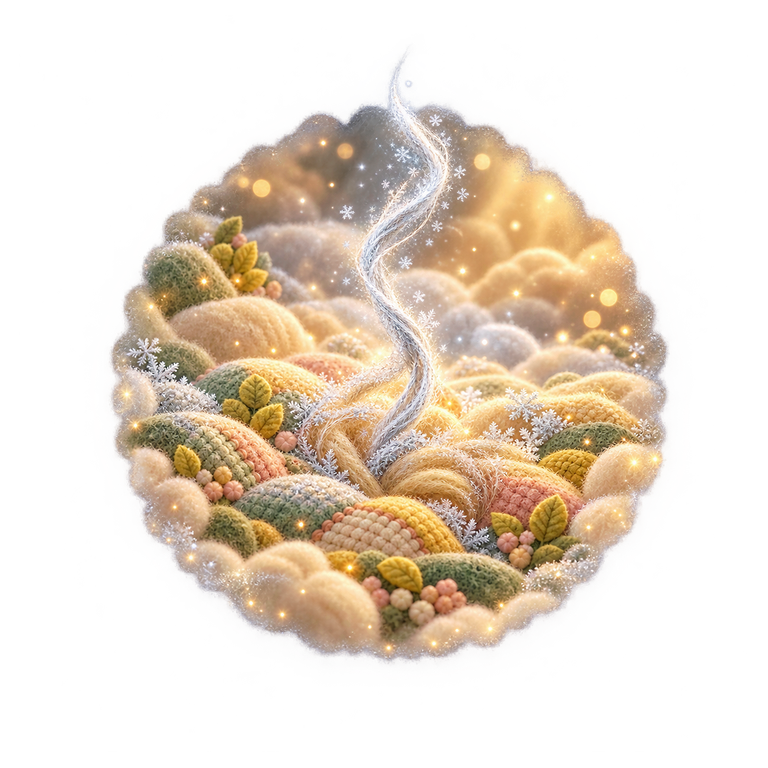
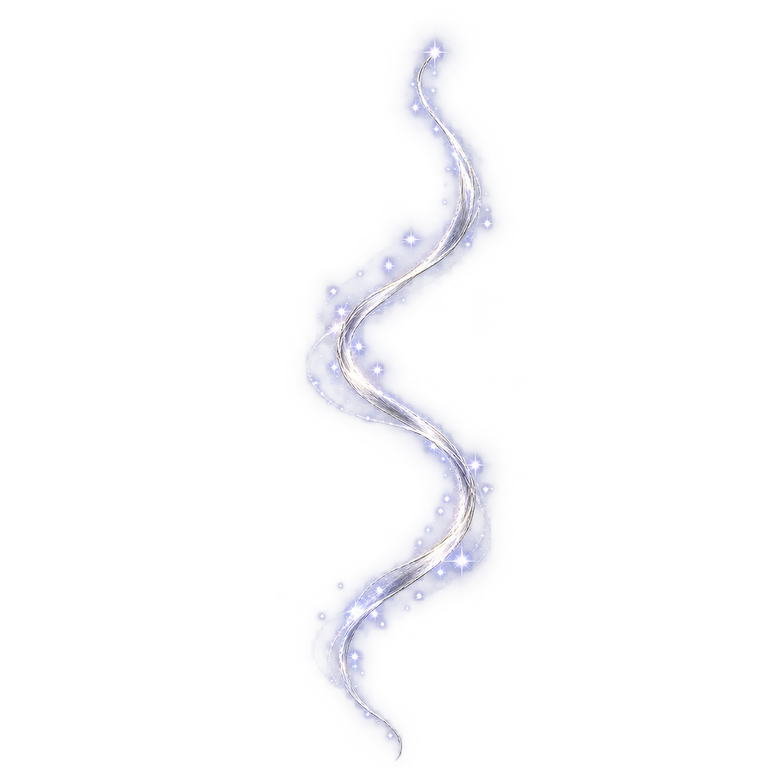
터비 3장 C3-6 2차 수정: Codex 재검수 R1-01~05 반영
- R1-01·03: 작은 화면 유닛 라벨을 이름 한 줄 + "HP · 상태" 한 줄로 고정, 라벨 줄바꿈 폭 2.5칸(모든 장 공통 전투 라벨)
- R1-02: 쓰러진 유닛이 남아 보이는 칸의 이동 칸은 윤곽만(채운 칸이 흐린 유닛을 덮지 않게)
- R1-04: 3장 대화 구간에 전용 배경 chapter03-dialogue-bg(delivery-v3, 알파 0.8), 1·2장은 기존 타일
- R1-05(P1): 은빛 실을 delivery-v3로 교체(털실 뭉치로 읽히던 바닥 덩어리 제거)

diff --git a/save-a-turby/src/scenes/BattleScene.ts b/save-a-turby/src/scenes/BattleScene.ts
@@ -33,7 +33,6 @@ interface UnitView {
 
 const RETRY_LIMIT = 3;
 const LABEL_GAP = 30; // 유닛 중심에서 라벨까지
-const LABEL_WRAP = BATTLE_TILE_SIZE * 2 - 12; // 이웃 라벨은 반대편에 있으므로 두 칸 폭까지 쓸 수 있다
 const asDepth = (o: Phaser.GameObjects.GameObject, depth: number) => (o as unknown as Phaser.GameObjects.Components.Depth).setDepth(depth);
 const slotHex = (slot: number) => coopSlots.find((c) => c.slot === slot)?.main ?? '#888888';
 const slotNum = (slot: number) => Phaser.Display.Color.HexStringToColor(slotHex(slot)).color;
@@ -377,7 +376,7 @@ export class BattleScene extends Phaser.Scene {
     container.add([selectRing, ring, body]);
     container.setDepth(10);
     // 라벨은 줄이지 않고 두 칸 폭 안에서 줄바꿈(이웃 라벨은 위·아래로 엇갈려 겹치지 않음 — labelPlacement)
-    const hpText = this.add.text(x, y + LABEL_GAP, this.hpLabel(u), { fontSize: `${this.hud.font.label}px`, color: '#ffffff', align: 'center', wordWrap: { width: LABEL_WRAP, useAdvancedWrap: true }, backgroundColor: u.side === 'party' ? slotHex(u.participantSlot) : '#00000090', padding: { x: 4, y: 2 } }).setOrigin(0.5, 0).setDepth(11);
+    const hpText = this.add.text(x, y + LABEL_GAP, this.hpLabel(u), { fontSize: `${this.hud.font.label}px`, color: '#ffffff', align: 'center', wordWrap: { width: this.hud.labelWrap, useAdvancedWrap: true }, backgroundColor: u.side === 'party' ? slotHex(u.participantSlot) : '#00000090', padding: { x: 4, y: 2 } }).setOrigin(0.5, 0).setDepth(11);
 
     if (!body.input) body.setInteractive({ useHandCursor: true });
     body.on('pointerdown', () => {
@@ -548,10 +547,12 @@ export class BattleScene extends Phaser.Scene {
       const p = this.tileToWorld(f.col, f.row);
       this.moveHighlights.push(this.add.rectangle(p.x, p.y, BATTLE_TILE_SIZE - 4, BATTLE_TILE_SIZE - 4).setStrokeStyle(3, 0xff9fb0, 1).setDepth(4));
     }
+    // 쓰러진 유닛이 남아 보이는 칸(반투명)은 채우지 않고 윤곽만 — 채운 칸이 흐린 유닛 그림을 덮어 보이지 않게(10-22 C3-6 R1-02)
+    const downed = new Set(this.snap.units.filter((o) => (o.stunned || o.inactive) && !isHiddenUnit(o)).map((o) => `${o.col},${o.row}`));
     for (const { col, row } of reachableCells(this.snap, unit)) {
       const { x, y } = this.tileToWorld(col, row);
       const rect = this.add
-        .rectangle(x, y, BATTLE_TILE_SIZE - 6, BATTLE_TILE_SIZE - 6, 0x9fe58a, 0.22)
+        .rectangle(x, y, BATTLE_TILE_SIZE - 6, BATTLE_TILE_SIZE - 6, 0x9fe58a, downed.has(`${col},${row}`) ? 0 : 0.22)
         .setStrokeStyle(2, 0x9fe58a, 0.6)
         .setDepth(4)
         .setInteractive({ useHandCursor: true })

diff --git a/save-a-turby/src/battle/battleView.ts b/save-a-turby/src/battle/battleView.ts
@@ -196,7 +196,8 @@ export function battleHudLayout(scale: number, tile = 80): BattleHudLayout {
   const goalPanel = compact ? { x: 1280 - 8 - 620, y: endTurn.y + endTurn.h + 8, w: 620, h: 260 } : null;
   const closeW = Math.round(font.button * 4);
   const goalClose = goalPanel ? { x: goalPanel.x + goalPanel.w - 8 - closeW, y: goalPanel.y + 8, w: closeW, h: btnH } : null;
-  return { mode: compact ? 'compact' : 'regular', font, objectivesCollapsible: compact, labelWrap: tile * 2 - 12, rects: { endTurn, goalButton, goalPanel, goalClose, turn, leave, hint } };
+  // 라벨 줄바꿈 폭: 작은 화면은 글자가 커서(약 24px) 두 칸 폭이면 "기억 실패굴이"도 쪼개진다 — 이름 한 줄이 들어가게 2.5칸(10-22 C3-6 R1-01·03)
+  return { mode: compact ? 'compact' : 'regular', font, objectivesCollapsible: compact, labelWrap: compact ? tile * 2.5 : tile * 2 - 12, rects: { endTurn, goalButton, goalPanel, goalClose, turn, leave, hint } };
 }
 
 // 하단 행동 안내(UI 문구). 작은 화면에서는 한 줄에 들어가게 짧게
@@ -253,7 +254,7 @@ export function resultLayout(scale: number, rowCount: number, framed = false): R
   return { mode: compact ? 'compact' : 'regular', panel, font, titleY, image, subY, rows, button };
 }
 
-// 작은 화면의 유닛 라벨: "이름 HP/최대" 한 줄 + 상태 표식은 짧은 UI 표기로 둘째 줄(대본 문구가 아님)
+// 작은 화면의 유닛 라벨: 이름 한 줄 + "HP/최대 · 상태" 한 줄(상태는 짧은 UI 표기 — 대본 문구가 아님). 10-22 C3-6 R1-01: 이름과 HP가 한 줄에서 쪼개지지 않게 두 줄 고정
 const SHORT_TAG: Record<string, string> = { '보호 대상': '보호', '부위 먼저': '부위 먼저' };
 export function unitLabel(u: BattleUnit, compact: boolean): string {
   // 10-14 v1a: 검은 재봉실은 A/B/C 글자로 구분하고 모바일에서는 "검은 실 A" 한 줄(HP 1/1은 생략)
@@ -262,7 +263,7 @@ export function unitLabel(u: BattleUnit, compact: boolean): string {
   const tags = unitTags(u);
   if (!compact) return `${u.name} HP ${u.hp}/${u.maxHp}${tags.length > 0 ? ` (${tags.join(' · ')})` : ''}`;
   const short = tags.map((t) => SHORT_TAG[t] ?? t);
-  return `${u.name} ${u.hp}/${u.maxHp}${short.length > 0 ? `\n${short.join(' · ')}` : ''}`;
+  return `${u.name}\n${[`${u.hp}/${u.maxHp}`, ...short].join(' · ')}`;
 }
 
 // ---------- 10-14 C2-5A 시각 보완(v1a) ----------

diff --git a/save-a-turby/test/underfloorArt2.test.ts b/save-a-turby/test/underfloorArt2.test.ts
@@ -22,7 +22,7 @@ const ASSETS: [string, string, number, number, string][] = [
[5 lines of base64/hex data omitted]
 ];
 
 test('2차 에셋 14종: 파일·키(파일명)·크기·투명·해시가 Codex delivery-v2 manifest와 같다', () => {
@@ -105,4 +105,12 @@ test('지도 소품·오버레이 계약: 매복 더미·보스 입구 표식 12
   const arena = UG.render.overlays.find((o) => o.assetKey === 'boss-arena-overlay')!;
   assert.deepEqual([arena.x, arena.y, arena.width, arena.height, arena.pivot, arena.alpha], [2450, 140, 700, 600, [0, 0], 0.8]);
   assert.ok((arena.x as number) + (arena.width as number) <= UG.size.width && (arena.y as number) + (arena.height as number) <= UG.size.height, '지도 안');
+});
+
+test('C3-6 R1-04: 3장 대화 배경(delivery-v3 1280×720 불투명) — 3장 구간에서만 한 장 배경, 1·2장은 기존 타일', () => {
+  const bytes = readFileSync(here('../src/assets/world/underfloor/chapter03-dialogue-bg.png'));
+  assert.deepEqual([bytes.readUInt32BE(16), bytes.readUInt32BE(20)], [1280, 720]);
[1 lines of base64/hex data omitted]
+  assert.match(readFileSync(here('../src/scenes/OpeningScene.ts'), 'utf8'), /underfloor: \{ key: 'chapter03-dialogue-bg', alpha: 0\.8 \}/);
+  assert.match(readFileSync(here('../src/scenes/StoryDialogueScene.ts'), 'utf8'), /chapterOfSegment\(id\) === 'ch03' \? 'underfloor' : 'forest'/);
 });

diff --git a/save-a-turby/src/scenes/OpeningScene.ts b/save-a-turby/src/scenes/OpeningScene.ts
@@ -9,6 +9,9 @@ import { portraitCandidates, runDialogue, type Advance, type DialogueEntry, type
 import { NAME_RULE_TEXT, nameReasonMessage, precheckName } from '../story/nameRules';
 import type { OpeningStoryState, StoryClient } from '../story/storyClient';
 
+// 장 전용 대화 배경(한 장 그림, 화면 크기). 없으면 bg-<code> 타일(1·2장 숲·집)
+const DIALOGUE_BACKDROPS: Record<string, { key: string; alpha: number }> = { underfloor: { key: 'chapter03-dialogue-bg', alpha: 0.8 } };
+
 // M3 오프닝 — 서버 체크포인트가 지정한 구간부터 공용 대사 재생기(story/dialogueRunner.ts)로 재생한다.
 // 이 씬은 그리기와 입력만 맡는다. 진행·보상·체크포인트는 전부 서버가 판정한다.
 export interface OpeningSceneData {
@@ -32,7 +35,7 @@ export class OpeningScene extends Phaser.Scene {
   protected opts!: OpeningSceneData;
   protected state!: OpeningStoryState;
   protected seen = new Set<string>();
-  private bg?: Phaser.GameObjects.TileSprite;
+  private bg?: Phaser.GameObjects.TileSprite | Phaser.GameObjects.Image;
   private layer!: Phaser.GameObjects.Container;
   private advanceResolver: ((a: Advance) => void) | null = null;
   private typing: Phaser.Time.TimerEvent | null = null;
@@ -119,6 +122,13 @@ export class OpeningScene extends Phaser.Scene {
 
   protected setBackdrop(code: string) {
     this.bg?.destroy();
+    this.bg = undefined;
+    // 장 전용 한 장 배경(타일 아님)이 있으면 그것을 화면 크기로(10-22 C3-6 R1-04: 3장 마루 밑)
+    const full = DIALOGUE_BACKDROPS[code];
+    if (full && this.textures.exists(full.key)) {
+      this.bg = this.add.image(0, 0, full.key).setOrigin(0, 0).setDisplaySize(CANVAS_WIDTH, CANVAS_HEIGHT).setDepth(0).setAlpha(full.alpha);
+      return;
+    }
     if (this.textures.exists(`bg-${code}`)) this.bg = this.add.tileSprite(0, 0, CANVAS_WIDTH, CANVAS_HEIGHT, `bg-${code}`).setOrigin(0, 0).setDepth(0).setAlpha(0.55);
   }
 

diff --git a/save-a-turby/src/scenes/StoryDialogueScene.ts b/save-a-turby/src/scenes/StoryDialogueScene.ts
@@ -57,7 +57,7 @@ export class StoryDialogueScene extends OpeningScene {
   protected ports(): RunnerPorts {
     return {
       ...super.ports(),
-      onSegment: () => this.setBackdrop('forest'),
+      onSegment: (id) => this.setBackdrop(chapterOfSegment(id) === 'ch03' ? 'underfloor' : 'forest'), // 3장은 마루 밑 대화 배경(C3-6 R1-04)
       startBattle: (key) => this.startBattle(key),
     };
   }
